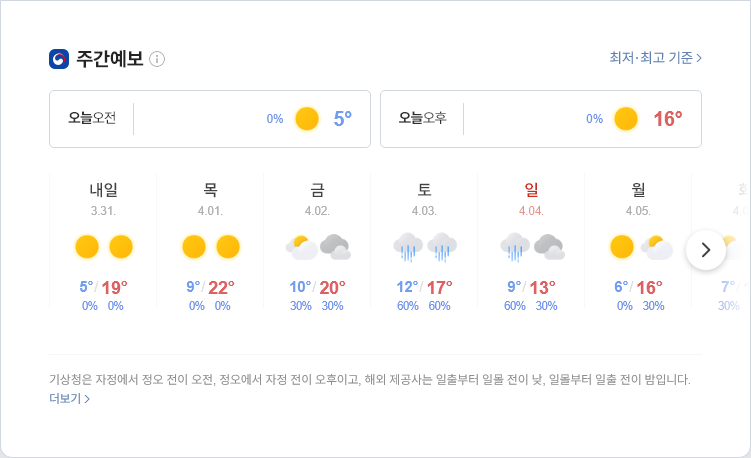
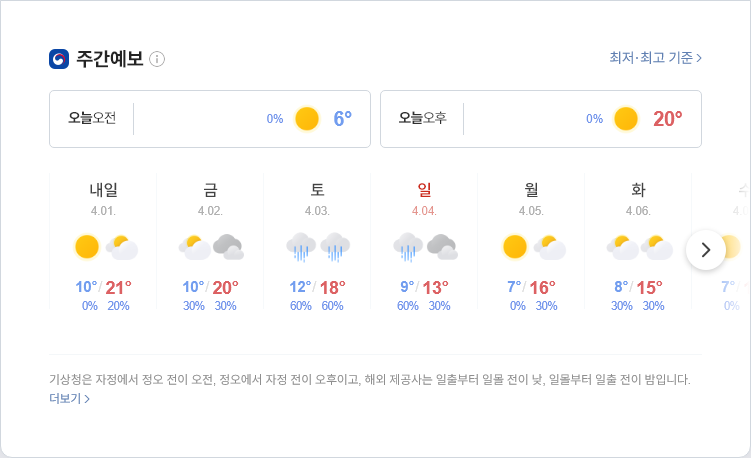
update result

diff --git a/README.md b/README.md
@@ -1,5 +1,5 @@
-##  2021-03-30 16:02:45   화요일 
-##### 날씨   -   어제보다 6° 높아요맑음  
+##  2021-03-31 05:54:41   수요일 
+##### 날씨   -   어제보다 1° 높아요맑음  
 <center><img src="../img/naver_weather_week.png"></center>
 ----
 ----
@@ -13,17 +13,17 @@
 ##### 세계
 <table border="1" bordercolor="blue" align = "center" >
 <tr align = "right" > <td>Item</td><td>Point</td><td>Diff</td><td>Rate</td><td>Buy</td><td>Sell</td><td>...</td>  </tr>
-<tr align = "right" > <td>DOW</td><td>33,171.37</td><td>98.49</td><td><font size="3" color="red" >0.3%</font></td><td><font size="3" color="black">0</font></td><td><font size="3" color="black">0</font></td><td>0</td>  </tr>
-<tr align = "right" > <td>NASDAQ</td><td>13,059.65</td><td>-79.08</td><td><font size="3" color="blue" >-0.6%</font></td><td><font size="3" color="black">0</font></td><td><font size="3" color="black">0</font></td><td>0</td>  </tr>
-<tr align = "right" > <td>S&P</td><td>3,971.09</td><td>-3.45</td><td><font size="3" color="blue" >-0.09%</font></td><td><font size="3" color="black">0</font></td><td><font size="3" color="black">0</font></td><td>0</td>  </tr>
-<tr align = "right" > <td>SHANHAI</td><td>3,453.36</td><td>18.06</td><td><font size="3" color="red" >0.53%</font></td><td><font size="3" color="black">0</font></td><td><font size="3" color="black">0</font></td><td>0</td>  </tr>
-<tr align = "right" > <td>INDIA</td><td>49,708.34</td><td>699.84</td><td><font size="3" color="red" >1.43%</font></td><td><font size="3" color="black">0</font></td><td><font size="3" color="black">0</font></td><td>0</td>  </tr>
+<tr align = "right" > <td>DOW</td><td>33,066.96</td><td>-104.41</td><td><font size="3" color="blue" >-0.31%</font></td><td><font size="3" color="black">0</font></td><td><font size="3" color="black">0</font></td><td>0</td>  </tr>
+<tr align = "right" > <td>NASDAQ</td><td>13,045.39</td><td>-14.26</td><td><font size="3" color="blue" >-0.11%</font></td><td><font size="3" color="black">0</font></td><td><font size="3" color="black">0</font></td><td>0</td>  </tr>
+<tr align = "right" > <td>S&P</td><td>3,958.55</td><td>-12.54</td><td><font size="3" color="blue" >-0.32%</font></td><td><font size="3" color="black">0</font></td><td><font size="3" color="black">0</font></td><td>0</td>  </tr>
+<tr align = "right" > <td>SHANHAI</td><td>3,456.68</td><td>21.38</td><td><font size="3" color="red" >0.62%</font></td><td><font size="3" color="black">0</font></td><td><font size="3" color="black">0</font></td><td>0</td>  </tr>
+<tr align = "right" > <td>INDIA</td><td>50,136.58</td><td>112.0</td><td><font size="3" color="red" >2.3%</font></td><td><font size="3" color="black">0</font></td><td><font size="3" color="black">0</font></td><td>0</td>  </tr>
 </table>
 ----
 ##### 시장
 <table border="1" bordercolor="blue" align = "center" >
 <tr align = "right" > <td>Item</td><td>Price</td><td>Diff</td><td>Rate</td><td>Buy</td><td>Sell</td><td>...</td>  </tr>
-<tr align = "right" > <td>USD</td><td>1,134.0</td><td>2.0</td><td><font size="3" color="red">0.18%</font></td><td><font size="3" color="black">1,110</font></td><td><font size="3" color="black">0</font></td><td>0</td>  </tr>
+<tr align = "right" > <td>USD</td><td>1,135.0</td><td>2.5</td><td><font size="3" color="red">0.22%</font></td><td><font size="3" color="black">1,110</font></td><td><font size="3" color="black">0</font></td><td>0</td>  </tr>
 <tr align = "right" > <td>WTI</td><td>61.56</td><td>0.59</td><td><font size="3" color="red">0.96%</font></td><td><font size="3" color="black">29.0</font></td><td><font size="3" color="black">0</font></td><td>0</td>  </tr>
 <tr align = "right" > <td>GOLD</td><td>1,712.0</td><td>-20.1</td><td><font size="3" color="blue">-1.16%</font></td><td><font size="3" color="black">0</font></td><td><font size="3" color="black">0</font></td><td>0</td>  </tr>
 </table>
